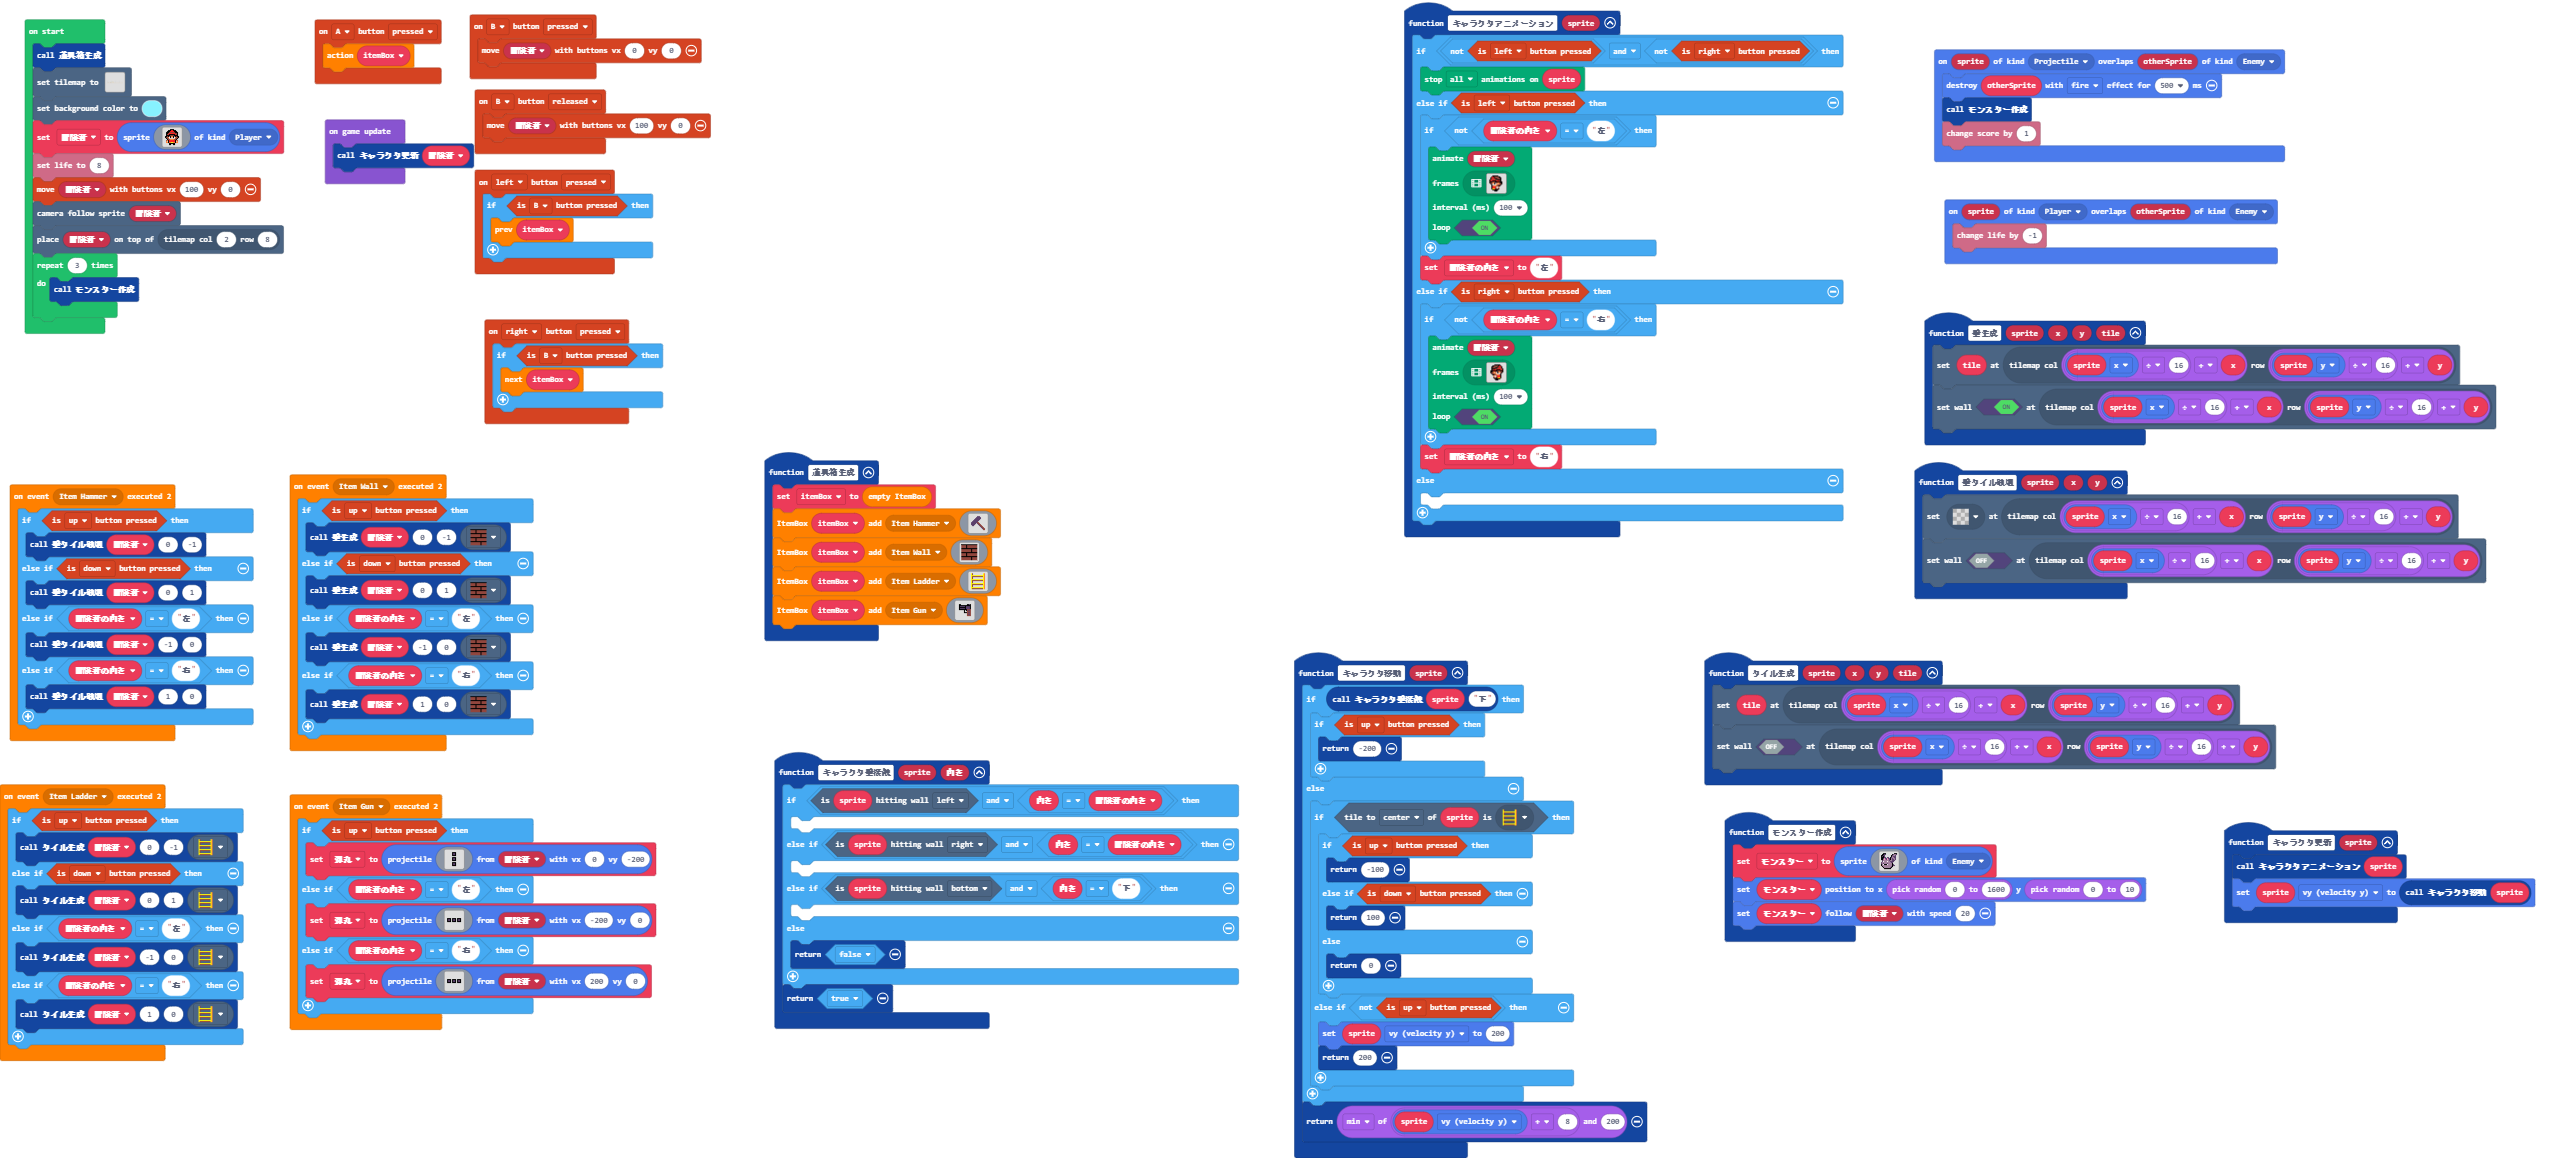
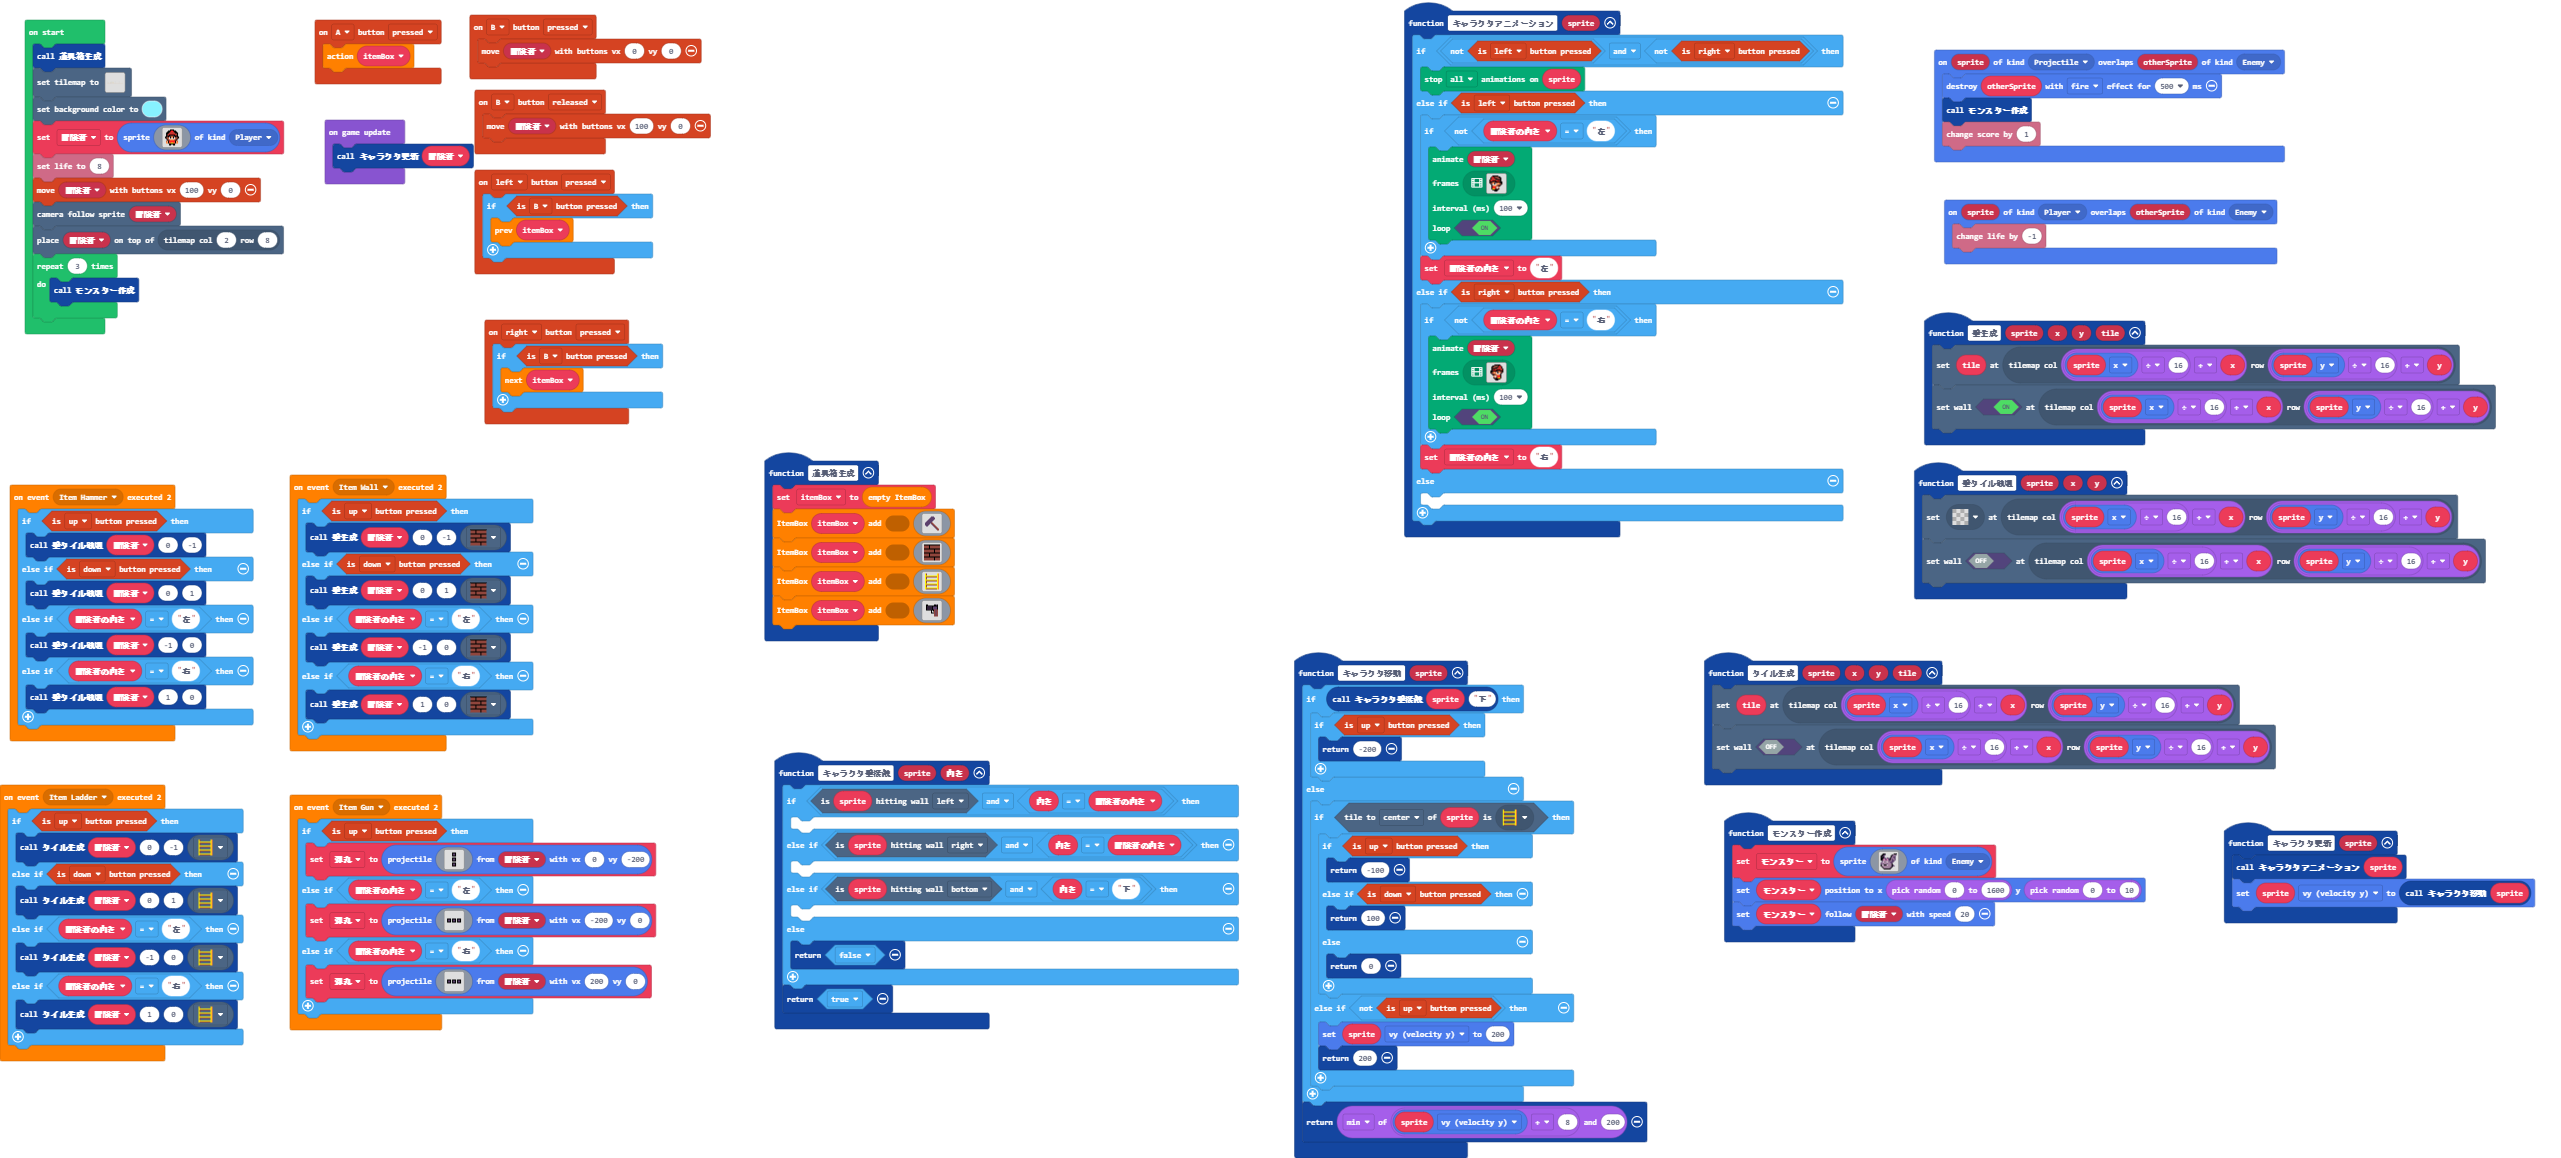
Update main.blocks, main.ts, itembox.ts

diff --git a/main.ts b/main.ts
@@ -47,10 +47,10 @@ controller.left.onEvent(ControllerButtonEvent.Pressed, function () {
 })
 function 道具箱生成 () {
     itemBox = Items.createEmptyItemBox()
-    itemBox.add(ItemKind.Hammer, assets.image`ハンマー`)
-    itemBox.add(ItemKind.Wall, assets.tile`壁タイル`)
-    itemBox.add(ItemKind.Ladder, assets.tile`ハシゴタイル`)
-    itemBox.add(ItemKind.Gun, assets.image`ハンドガン`)
+    itemBox.add(0, assets.image`ハンマー`)
+    itemBox.add(0, assets.tile`壁タイル`)
+    itemBox.add(0, assets.tile`ハシゴタイル`)
+    itemBox.add(0, assets.image`ハンドガン`)
 }
 function キャラクタ更新 (sprite: Sprite) {
     キャラクタアニメーション(sprite)

diff --git a/itembox.ts b/itembox.ts
@@ -149,14 +149,9 @@ class ItemBox {
 
     }
 
-    //% block="ItemBox $this(itemBox) selected $name "    
-    isSelected(name:string) : boolean {
-        return true;
-    }
-
     //% block="ItemBox $this(itemBox) selected $itemKind "    
     //% itemKind.shadow="item_kind_enum_shim"
-    isSelected2(itemKind:number) : boolean {
+    isSelected(itemKind:number) : boolean {
         let item = this._items[this._selected];
         return item._kind == itemKind;
     }
